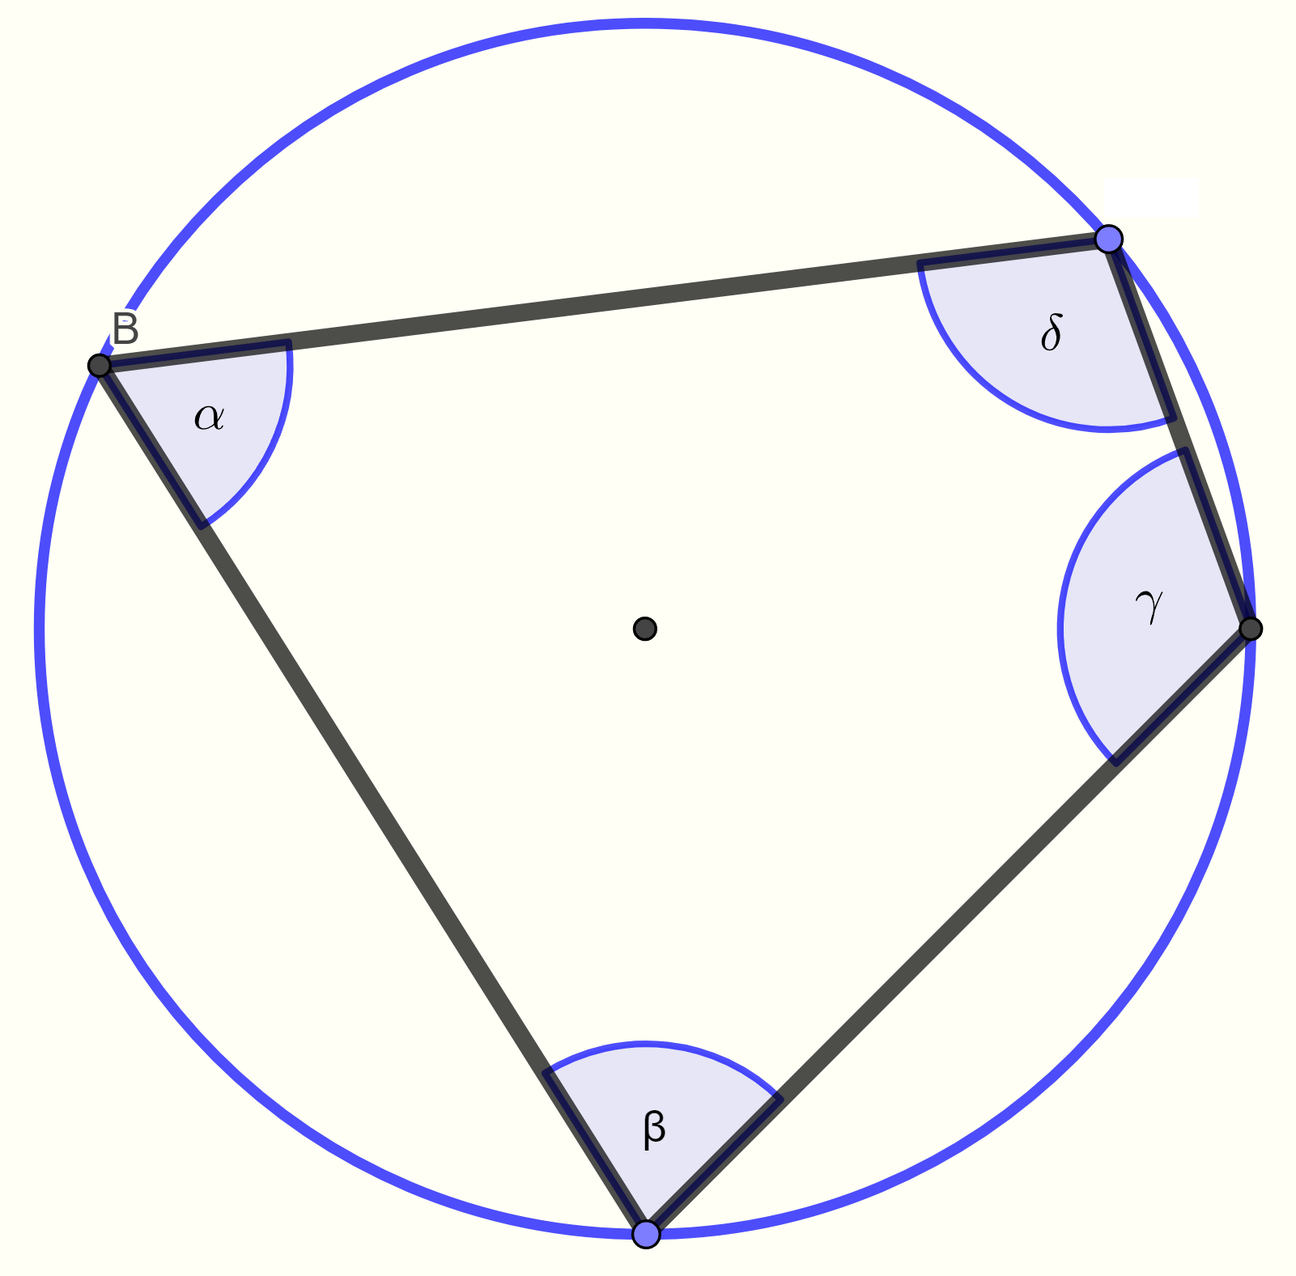
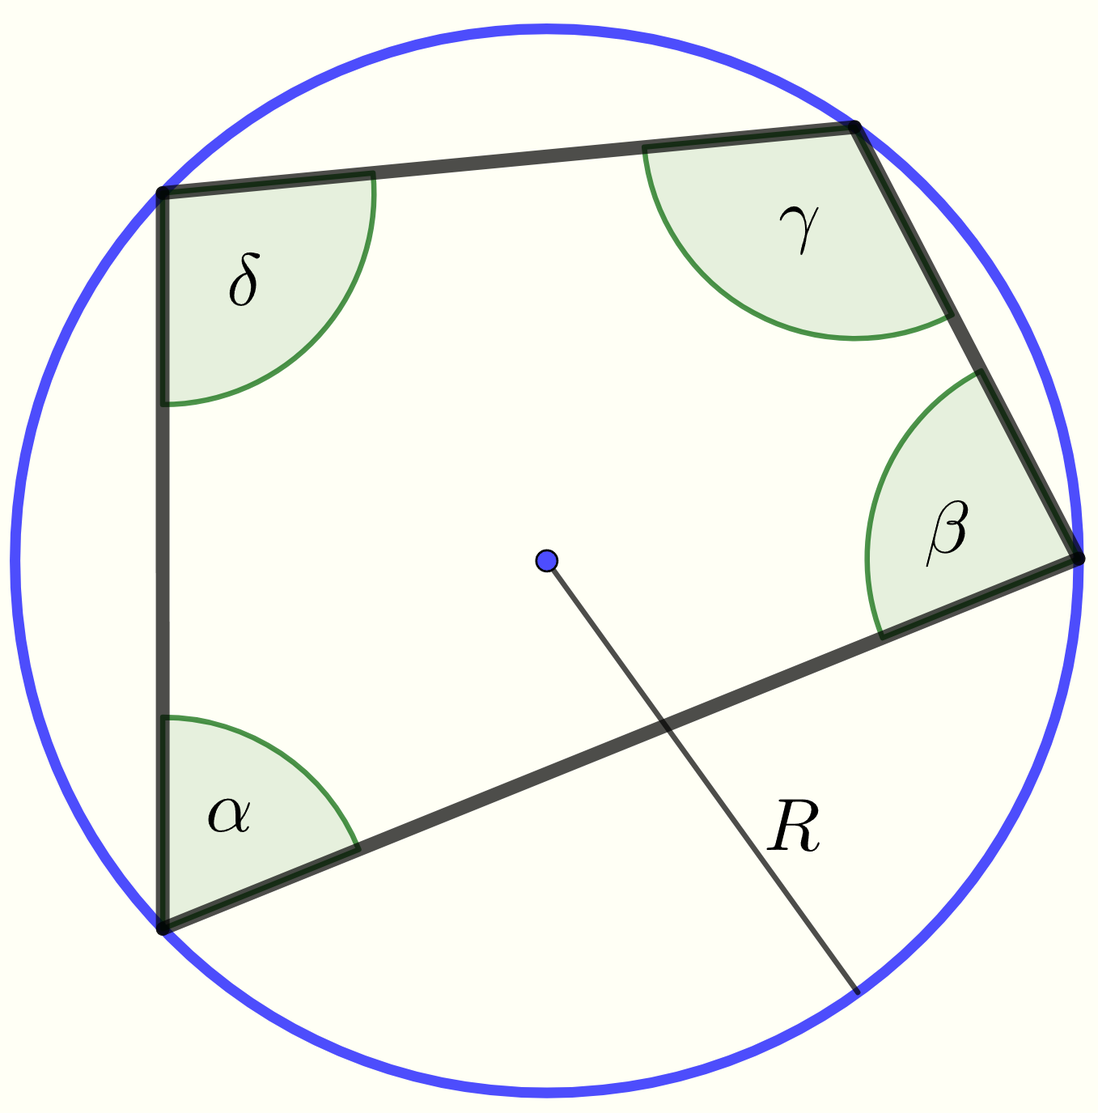
czworokaty aktualizacja

diff --git a/src/pages/knowledgeBasePages/planimetryPages/Quadrangles/CirclesRelations/CirclesRelationsContent.tsx b/src/pages/knowledgeBasePages/planimetryPages/Quadrangles/CirclesRelations/CirclesRelationsContent.tsx
@@ -12,6 +12,13 @@ import CyclingTrapezoid_Irregular from "../../../../../assets/images/quadrangles
 import CyclingTrapezoid_Trapezium from "../../../../../assets/images/quadrangles/cyclingTrapezoid_Trapezium.png";
 import CyclingTrapezoid_Rectangle from "../../../../../assets/images/quadrangles/cyclingTrapezoid_Rectangle.png";
 import CyclingTrapezoid_Square from "../../../../../assets/images/quadrangles/cyclingTrapezoid_Square.png";
+import PtolemeusTheory from "../../../../../assets/images/quadrangles/Ptolemeus_theory.png";
+import Tangential1 from "../../../../../assets/images/quadrangles/tangentialTrapezoid_Trapezium_2.png"
+import Tangential2 from "../../../../../assets/images/quadrangles/tangentialTrapezoid_TrapeziumRectangular.png";
+import Tangential3 from "../../../../../assets/images/quadrangles/tangentialTrapezoid_TrapeziumRegular.png";
+import Tangential4 from "../../../../../assets/images/quadrangles/tangentialTrapezoid_Rhombus.png";
+import Tangential5 from "../../../../../assets/images/quadrangles/tangentialTrapezoid_Square.png";
+
 
 import { GeometryEquations } from "../../../../../types/equations";
 
@@ -28,12 +35,14 @@ const CirclesRelationsContent: FC = () => (
         <GraphImage size={"small"} src={TrapezoidInCircle} alt={"Czworokąt wpisany w okrąg"} />
         <p>Dla czworokąta wpisanego w okrąg zachodzi zależność:</p>
         <Formula formula={GeometryEquations.trapezoid_in_circle} />
-        <LegendParagraph type={"top"} notation={"\\alpha, \\beta, \\gamma, \\delta"} explanation={"miary kątów wewnętrznych czworokąta"} /><br />
+        <LegendParagraph type={"long"} notation={"\\alpha, \\beta, \\gamma, \\delta"} explanation={"miary kątów wewnętrznych czworokąta"} />
+        <LegendParagraph type={"long"} notation={"R"} explanation={"promień okręgu opisanego na czworokącie"} />
+        <ArticleBorder />
         <p>Wzór na pole czworokąta, który jest wpisany w okrąg można policzyć za pomocą <b>wzoru Brahmagupty</b></p>
         <Formula formula={GeometryEquations.trapezoidInCircleArea} />
         <p>gdzie:</p>
         <Formula formula={GeometryEquations.HalfPerimeter} />
-        <LegendParagraph type={"top"} notation={"a,b,c,d"} explanation={"boki czworokąta cyklicznego"} />
+        <LegendParagraph type={"long"} notation={"a,b,c,d"} explanation={"boki czworokąta cyklicznego"} />
         <LegendParagraph type={"short"} notation={"p"} explanation={"połowa obwodu czworokąta cyklicznego"} />
         <br />
         <p>Ten sam wzór można zapisać bez konieczności wprowadzania wartości równej połowie obwodu czworokąta cyklicznego:</p>
@@ -42,6 +51,15 @@ const CirclesRelationsContent: FC = () => (
                 <Formula formula={GeometryEquations.trapezoidInCircleArea2} />
             </div>
         </div>
+
+        <ArticleBorder />
+        <Title text={"Twierdzenie Ptolemeusza"} type="submain-article" />
+        <p><b>Twierdzenie Ptolemeusza</b></p>
+        <p>W dowolnym czworokącie wpisanym w okrąg o kolejnych bokach a,b,c,d i przekątnych d<sub>1</sub>, d<sub>2</sub> suma iloczynów długości boków przeciwległych jest równa iloczynowi przekątnych.</p>
+        <p><b>Twierdzenie odwrotne do Twierdzenia Ptolemeusza</b></p>
+        <p>Jeśli w czworokącie iloczyn długości przekątnych równy jest sumie iloczynów długości przeciwległych boków, to czworokąt ten można wpisać w okrąg.</p>
+        <GraphImage size={"small"} src={PtolemeusTheory} alt={"Twierdzenie Ptolemeusza"} />
+        <Formula formula={GeometryEquations.ptolemeusTheory} />
         <ArticleBorder />
         <p>Środek okręgu opisanego na czworokacie jest punktem przecięcia się jego symetralnych</p>
         <GraphImage size={"smaller"} src={TrapezoidInCircle2} alt={"Czworokąt wpisany w okrąg"} />
@@ -60,9 +78,12 @@ const CirclesRelationsContent: FC = () => (
 
         <Title text={"Czworokąt opisany na okręgu"} type="main-article" />
         <GraphImage size={"small"} src={TrapezoidOnCircle} alt={"Czworokąt opisany na okręgu"} />
-        <p>Dla czworokąta opisanego na okręgu zachodzi natomiast zależność:</p>
+        <Title text={"Twierdzenie Pitota"} type="submain-article" />
+        <b>Twierdzenie Pitota</b>:
+        <p>Dla czworokąta opisanego na okręgu jest prawdziwe równanie </p>
         <Formula formula={GeometryEquations.trapezoid_on_circle} />
         <LegendParagraph type={"long"} notation={"a,b,c,d"} explanation={"kolejne boki czworokąta opisanego na okręgu."} /><br />
+        <ArticleBorder />
         <p>Znając promień okręgu wpisanego r możemy policzyć pole czworokąta opisanego na tym okręgu za pomocą wzoru</p>
         <Formula formula={GeometryEquations.trapezoidOnCircleArea} />
         <p>gdzie:</p>
@@ -76,9 +97,30 @@ const CirclesRelationsContent: FC = () => (
                 <Formula formula={GeometryEquations.trapezoidOnCircleArea2} />
             </div>
         </div>
+
+
         <ArticleBorder />
         <p><b>Środek okręgu wpisanego w czworokąt</b> jest punktem przecięcia się jego dwusiecznych kątów węwnętrznych</p>
         <GraphImage size={"small"} src={TrapezoidOnCircle2} alt={"Czworokąt opisany na okręgu"} />
+        <ArticleBorder />
+        <Title text={"Czworokąt styczny"} type="submain-article" />
+        <p><b>Czworokąt styczny</b> do okręgu to taki czworokąt, którego suma dwóch przeciwległych boków jest równa sumie dwóch pozostałych, czyli takim, w który da się wpisać okrąg. </p>
+        <p>W czworokąt wklęsły z wyłączeniem deltoida wklęsłego nie da się wpisać okręgu</p>
+        <br /><p>(miejsce na deltoid wklęsły z wpisanym okręgiem)</p><br />
+        <p>Jest możliwe wpisanie okręgu w <b>trapez równoramienny</b>, <b>prostokątny</b> oraz <b>różnoramienny</b></p>
+        <div className="flex flex-wrap items-center justify-around">
+            <GraphImage size={"smallest"} src={Tangential1} alt={"Trapez z wpisanym okręgiem 1"} />
+            <GraphImage size={"smallest"} src={Tangential2} alt={"Trapez z wpisanym okręgiem 2"} />
+            <GraphImage size={"smallest"} src={Tangential3} alt={"Trapez z wpisanym okręgiem 3"} />
+        </div>
+        <p>Okrąg wpisany w czworokąty od równych długościach boków: <b>rombu</b> oraz jego szczególnego przypadku, <b>kwadratu</b>.</p>
+        <div className="flex flex-wrap items-center justify-around">
+            <GraphImage size={"smallest"} src={Tangential4} alt={"Romb z wpisanym okręgiem 4"} />
+            <GraphImage size={"smallest"} src={Tangential5} alt={"Kwadrat z wpisanym okręgiem 5"} />
+        </div>
+        <ArticleBorder />
+        <Title text={"Czworokąt dwucentryczny"} type="submain-article" />
+        <p><b>Czworokąt dwucentryczny</b> to taki czworokąt, który jest równocześnie styczny i cykliczny. </p>
 
     </>
 );

diff --git a/src/types/equations.ts b/src/types/equations.ts
@@ -22,28 +22,29 @@ export enum GeometryEquations {
     HalfPerimeter = `p=\\frac{a+b+c+d}{2}`,
 
     // Areas
-    TrapezoidArea = `P_1=\\frac{1}{2} \\cdot d_1 \\cdot d_2 \\cdot  \\sin\\alpha`,
-    TrapezoidArea_Isosceles = `P_1=\\frac{1}{2} \\cdot d^2 \\cdot \\sin\\alpha`,
-    TrapezoidArea_Square = `P_1=\\frac{1}{2} \\cdot d^2`,
-    TrapezoidArea_Diamond = `P_1=\\frac{1}{2}\\cdot d_1 \\cdot d_2`,
-    TrapeziumArea = `P_2=\\frac{1}{2} \\cdot \\left( a + b \\right) \\cdot h`,
-    TrapeziumArea_Rectangular = `P_2=\\frac{1}{2}\\cdot \\left( a+b \\right) \\cdot c`,
-    TrapeziumArea_Parallelogram = `P_2=a \\cdot h`,
-    TrapeziumArea_Rectangle = `P_2=a \\cdot b`,
-    TrapeziumArea_Square = `P_2=a^2`,
-    TrapeziumArea2 = `P_3=\\frac{1}{4} \\cdot \\frac{\\left( a + b \\right)}{|a-b|} \\sqrt{(|a-b|+c+d)(|a-b|+c-d)(|a-b|-c+d)(-|a-b|+c+d)}`,
-    TrapeziumArea2_Isosceles = `P_3=\\frac{1}{4} \\cdot \\left( a + b \\right) \\sqrt{4c^2-(a-b)^2}`,
-    ParallelogramArea = `P_4=a \\cdot b \\cdot \\sin{\\beta}`,
-    ParallelogramArea_Rectangle = `P_4=a \\cdot b`,
-    ParallelogramArea_Square = 'P_4=a^2',
-    ParallelogramArea_Diamond = 'P_4=a^2 \\cdot \\sin{\\beta}',
+    QuadrangleArea = `P_1=\\sqrt{\\left( p - a \\right)\\left( p - b \\right)\\left( p - c \\right)\\left( p - d \\right)-abcd \\cdot \\cos^2 \\left(\\frac{\\alpha + \\gamma}{2}\\right)}`,
+    QuadrangleArea2 = `P_1=\\frac{1}{4}\\sqrt{\\left( -a+b+c+d \\right)\\left( a-b+c+d \\right)\\left( a+b-c+d \\right)\\left( a+b+c-d \\right)-abcd \\cdot \\cos^2 \\left(\\frac{\\alpha + \\gamma}{2}\\right)}`,
+    TrapezoidArea = `P_2=\\frac{1}{2} \\cdot d_1 \\cdot d_2 \\cdot  \\sin\\alpha`,
+    TrapezoidArea_Isosceles = `P_2=\\frac{1}{2} \\cdot d^2 \\cdot \\sin\\alpha`,
+    TrapezoidArea_Square = `P_2=\\frac{1}{2} \\cdot d^2`,
+    TrapezoidArea_Diamond = `P_2=\\frac{1}{2}\\cdot d_1 \\cdot d_2`,
+    TrapeziumArea = `P_3=\\frac{1}{2} \\cdot \\left( a + b \\right) \\cdot h`,
+    TrapeziumArea_Rectangular = `P_3=\\frac{1}{2}\\cdot \\left( a+b \\right) \\cdot c`,
+    TrapeziumArea_Parallelogram = `P_3=a \\cdot h`,
+    TrapeziumArea_Rectangle = `P_4=a \\cdot b`,
+    TrapeziumArea_Square = `P_4=a^2`,
+    TrapeziumArea2 = `P_4=\\frac{1}{4} \\cdot \\frac{\\left( a + b \\right)}{|a-b|} \\sqrt{(|a-b|+c+d)(|a-b|+c-d)(|a-b|-c+d)(-|a-b|+c+d)}`,
+    TrapeziumArea2_Isosceles = `P_4=\\frac{1}{4} \\cdot \\left( a + b \\right) \\sqrt{4c^2-(a-b)^2}`,
+    ParallelogramArea = `P_5=a \\cdot b \\cdot \\sin{\\beta}`,
+    ParallelogramArea_Rectangle = `P_5=a \\cdot b`,
+    ParallelogramArea_Square = 'P_5=a^2',
+    ParallelogramArea_Diamond = 'P_5=a^2 \\cdot \\sin{\\beta}',
     RectangleArea = `P = a \\cdot b`,
-    DeltoidArea = `P_5 = a \\cdot b \\cdot \\sin \\gamma`,
-    trapezoidInCircleArea = `P_6 = \\sqrt{\\left( p - a \\right)\\left( p - b \\right)\\left( p - c \\right)\\left( p - d \\right)}`,
-    trapezoidInCircleArea2 = `P_6 = \\frac{1}{4}\\sqrt{\\left( -a+b+c+d \\right)\\left( a-b+c+d \\right)\\left( a+b-c+d \\right)\\left( a+b+c-d \\right)}`,
+    DeltoidArea = `P_6 = a \\cdot b \\cdot \\sin \\gamma`,
+    trapezoidInCircleArea = `P_1 = \\sqrt{\\left( p - a \\right)\\left( p - b \\right)\\left( p - c \\right)\\left( p - d \\right)}`,
+    trapezoidInCircleArea2 = `P_1 = \\frac{1}{4}\\sqrt{\\left( -a+b+c+d \\right)\\left( a-b+c+d \\right)\\left( a+b-c+d \\right)\\left( a+b+c-d \\right)}`,
     trapezoidOnCircleArea = 'P_7 = p \\cdot r',
     trapezoidOnCircleArea2 = 'P_7 = \\frac{1}{2} \\left( a + b + c + d \\right) \\cdot r',
-
 
     // Segments
     TrapeziumMidpointsConnector = `\\frac{a+b}{2}`,
@@ -58,10 +59,11 @@ export enum GeometryEquations {
     RectangleDiagonal = 'd=\\sqrt{a^2+b^2}',
     SquareDiagonal = 'd=\\sqrt{2}',
 
-
     // Conditions
     trapezoid_in_circle = `\\alpha + \\gamma = \\beta + \\delta = 180^{\\circ}`,
     trapezoid_on_circle = `a + c = b + d`,
+    quadrilateral_interior_angles_theorem = `\\alpha + \\beta + \\gamma + \\delta = 360^{\\circ} `,
+    ptolemeusTheory = `a \\cdot c + b \\cdot d = d_1 \\cdot d_2`
 }
 
 //Linear Formula

diff --git a/src/pages/knowledgeBasePages/planimetryPages/Quadrangles/QuadranglesContent.tsx b/src/pages/knowledgeBasePages/planimetryPages/Quadrangles/QuadranglesContent.tsx
@@ -12,6 +12,13 @@ import SquareContent from "./Square/SquareContent";
 import DiamondContent from "./Diamond/DiamondContent";
 import DeltoidContent from "./Deltoid/DeltoidContent";
 import CirclesRelationsContent from "./CirclesRelations/CirclesRelationsContent";
+import Quadrangle1 from "../../../../assets/images/quadrangles/Quadrangles_01.png";
+import Quadrangle2 from "../../../../assets/images/quadrangles/Quadrangles_02.png";
+import GraphImage from "../../../../components/articleItems/GraphImage";
+import Formula from "../../../../components/articleItems/Formula";
+import { GeometryEquations } from "../../../../types/equations";
+import LegendParagraph from "../../../../components/articleItems/LegendParagraph";
+
 
 const QuadranglesContent: FC = () => {
 
@@ -21,7 +28,42 @@ const QuadranglesContent: FC = () => {
                 {/* CZWOROKĄTY */}
                 <Title text={"Czworokąty"} type={"main-article"} />
                 <p><b>Czworokąt (czworobok)</b> to wielokąt płaski o czterech bokach i dwóch przekątnych, definiowanych jako odcinki łączące dwa niesąsiednie boki.</p>
+                <div className="flex flex-wrap justify-around">
+                    <div className="flex flex-col">
+                        <Title text={"Czworokąt wypukły"} type="main-article" />
+                        <GraphImage size={"smaller"} src={Quadrangle1} alt={"Czworokat wypukły"} />
+                    </div>
+                    <div>
+                        <Title text={"Czworokąt wklęsły"} type="main-article" />
+                        <GraphImage size={"smaller"} src={Quadrangle2} alt={"Czworokat wklęsły"} />
+                    </div>
+                </div>
+                <Title text={"Twierdzenie Bretschneidera"} type="submain-article" />
+                <p>Zgodnie z <b>Twierdzeniem Bretschneidera</b> znając długości wszystkich boków i miary wszystkich kątów dowolnego czworokąta można policzyć jego pole powierzchni za pomocą wzoru:</p>
+                <div className="overflow-x-auto">
+                    <div className="flex justify-center my-4 min-w-[600px]">
+                        <Formula formula={GeometryEquations.QuadrangleArea} />
+                    </div>
+                </div>
+                <p>gdzie:</p>
+                <Formula formula={GeometryEquations.HalfPerimeter} />
+                <LegendParagraph type={"long"} notation={"a,b,c,d"} explanation={"boki czworokąta"} />
+                <LegendParagraph type={"long"} notation={"\\alpha, \\gamma"} explanation={"miary dwóch przeciwległych kątów wewnętrznych czworokąta"} />
+                <LegendParagraph type={"long"} notation={"p"} explanation={"połowa obwodu czworokąta"} />
+                <br />
+                <p>Ten sam wzór można zapisać bez konieczności wprowadzania wartości równej połowie obwodu czworokąta:</p>
+                <div className="overflow-x-auto">
+                    <div className="flex justify-center my-4 min-w-[800px]">
+                        <Formula formula={GeometryEquations.QuadrangleArea2} />
+                    </div>
+                </div>
+                <ArticleBorder />
+                <Title text={"Twierdzenie o kątach wewnętrznych w czworokącie"} type="submain-article" />
+                <Formula formula={GeometryEquations.quadrilateral_interior_angles_theorem} />
                 <br /><p>Suma miar kątów wewnętrznych czworokąta wynosi 360°</p>
+
+
+
                 <ArticleBorder />
                 {/* TRAPEZOID */}
                 <TrapezoidContent />

diff --git a/src/pages/knowledgeBasePages/planimetryPages/Quadrangles/Trapezoid/TrapezoidContent.tsx b/src/pages/knowledgeBasePages/planimetryPages/Quadrangles/Trapezoid/TrapezoidContent.tsx
@@ -5,6 +5,7 @@ import Trapezoid from "../../../../../assets/images/quadrangles/trapezoid.png"
 import Formula from "../../../../../components/articleItems/Formula";
 import { GeometryEquations } from "../../../../../types/equations";
 import LegendParagraph from "../../../../../components/articleItems/LegendParagraph";
+import { NavLink } from "react-router-dom";
 
 const TrapezoidContent: FC = () => {
 
@@ -17,8 +18,9 @@ const TrapezoidContent: FC = () => {
                 <br />
                 <p><u>Definicja 1:</u> Czworokąt wypukły, który nie jest trapezem, tzn. nie ma żadnej pary boków równoległych</p>
                 <p><u>Definicja 2:</u> Każdy czworokąt wypukły</p><br />
-                <p>Na majza.eu przyjęte zostało założenie, że trapezoid jest dowolnym czworokątem wypukłym zgodnie z definicją 2, wówczas fakt dziedziczenia cech rodzica w drzewie klasyfikacyjnym rodzica będzie spójny. Na przykład każdy czworokąt, który jest niżej w drzewie klasyfikacyjnym, jak np. trapez, prostokąt, czy deltoid, dziedziczy pole trapezoidu.
-                </p>
+                <p>Na majza.eu przyjęte zostało założenie, że trapezoid jest dowolnym czworokątem wypukłym zgodnie z definicją 2, wówczas fakt dziedziczenia cech rodzica w drzewie klasyfikacyjnym czworokątów będzie spójny.
+                </p><br />
+                <p>Na przykład: kwadrat dziedziczy cechy prostokąta, który dziedziczy cechy, równoległoboku, który dziedziczy cechy trapeza równoramiennego, który dziedziczy cechy trapeza, który dziedziczy cechy trapezoidu (czworokąta wypukłego).</p>
                 <br />
                 <p>W polskich podręcznikach do matematyki zazwyczaj stosowana jest definicja 1.</p>
                 <GraphImage size={"small"} src={Trapezoid} alt={"Trapezoid"} />
@@ -28,7 +30,7 @@ const TrapezoidContent: FC = () => {
                 <Formula formula={GeometryEquations.TrapezoidArea} />
                 <LegendParagraph type={"top"} notation={"d_1,d_2"} explanation={"przekątne czworokąta"} />
                 <LegendParagraph type={"short"} notation={"\\alpha"} explanation={"kąt między przekątnymi"} /><br />
-                <p>Wszystkie cechy czworokąta wypukłego są dziedziczone przez figury potomne. Szczególnymi przypadkami trapezoidów są <b>trapez</b> i <b>deltoid</b>.</p>
+                <p>Wszystkie cechy czworokąta wypukłego są dziedziczone przez figury potomne. Szczególnymi przypadkami trapezoidów są <NavLink to="../trapez"><b>trapez</b></NavLink> i <NavLink to="../deltoid"><b>deltoid</b></NavLink>.</p>
             </div>
         </>
     );

diff --git a/src/pages/knowledgeBasePages/planimetryPages/Quadrangles/Parallelogram/ParallelogramContent.tsx b/src/pages/knowledgeBasePages/planimetryPages/Quadrangles/Parallelogram/ParallelogramContent.tsx
@@ -9,6 +9,7 @@ import Paralellogram from "../../../../../assets/images/quadrangles/Parallelogra
 import Proof from "../../../../../components/articleItems/Proof";
 import ParallelogramAngles from "../../../../../assets/images/quadrangles/Parallelogram_angles.png"
 import { TrapeziumAreaParallelogramProof } from "../../../../../types/proofs";
+import { NavLink } from "react-router-dom";
 
 
 const ParallelogramContent: FC = () => (
@@ -28,7 +29,7 @@ const ParallelogramContent: FC = () => (
         <p>Równoległobok jest trapezem, więc w przypadku, gdy wybrane dwa równoległe boki uznamy za podstawy otrzymamy zredukowaną postać wzoru:</p>
         <Formula formula={GeometryEquations.TrapeziumArea_Parallelogram} />
         <LegendParagraph type={"top"} notation={"h"} explanation={"wysokość równoległoboku opuszczona na bok a"} /><br />
-        <Proof steps={TrapeziumAreaParallelogramProof} text={"Dowód"} />
+        <Proof steps={TrapeziumAreaParallelogramProof} text={"Dowód"} /><br />
         <p>Pole powierzchni równoległoboku wyraża się również wzorem</p>
         <Formula formula={GeometryEquations.ParallelogramArea} />
         <LegendParagraph type={"top"} notation={"\\beta"} explanation={"kąt między bokami równoległoboku"} />
@@ -40,13 +41,13 @@ const ParallelogramContent: FC = () => (
         <GraphImage size={"small"} src={ParallelogramAngles} alt={"Równoległobok"} />
         <p>To twierdzenie można udowodnić za pomocą <b>Twierdzenia o trzech prostych</b></p>
         <ArticleBorder />
-        <p> Wyróżnia się szczególne przypadki równoległoboków: <b>Prostokąt</b> i <b>Romb</b></p><br />
         <p> <b>Długości przekątnych:</b></p>
         <Formula formula={GeometryEquations.ParallelogramDiagonal_short} />
         <Formula formula={GeometryEquations.ParallelogramDiagonal_long} />
         <p>Długości przekątnych są możliwe do wyznaczenia za pomocą <b>Twierdzenie cosinusów</b></p>
-
-
+        <p>Punkt przecięcia przekątnych równoległoboku dzieli je na dwa równe odcinki</p>
+        <ArticleBorder />
+        <p> Wyróżnia się szczególne przypadki równoległoboków: <NavLink to="../prostokat"><b>Prostokąt</b></NavLink> i <NavLink to="../romb"><b>Romb</b></NavLink></p>
     </>
 );
 

diff --git a/src/pages/knowledgeBasePages/planimetryPages/Quadrangles/Trapezium/TrapeziumContent.tsx b/src/pages/knowledgeBasePages/planimetryPages/Quadrangles/Trapezium/TrapeziumContent.tsx
@@ -8,6 +8,7 @@ import LegendParagraph from "../../../../../components/articleItems/LegendParagr
 import TrapezeHalf from "../../../../../assets/images/quadrangles/tapeze_half.png";
 import ArticleBorder from "../../../../../components/articleItems/ArticleBorder";
 import TrapeziumAngles from "../../../../../assets/images/quadrangles/trapezium_angles.png";
+import { NavLink } from "react-router-dom";
 
 const TrapeziumContent: FC = () => {
 
@@ -46,7 +47,7 @@ const TrapeziumContent: FC = () => {
                 <p><b>Odcinek łączący środki ramion</b> trapezu jest równoległy do jego postaw i jego długość wyraża się równaniem</p>
                 <Formula formula={GeometryEquations.TrapeziumMidpointsConnector} />
                 <ArticleBorder />
-                <p> Wyróżnia się szczególne przypadki trapezów: <b>trapez prostokątny</b> i <b>trapez równoramienny</b></p>
+                <p> Wyróżnia się szczególne przypadki trapezów: <NavLink to="../trapez-prostokatny"><b>trapez prostokątny</b></NavLink> i <NavLink to="../trapez-rownoramienny"><b>trapez równoramienny</b></NavLink></p>
 
 
             </div>

diff --git a/src/pages/knowledgeBasePages/planimetryPages/Quadrangles/IsoscelesTrapezium/IsoscelesTrapeziumContent.tsx b/src/pages/knowledgeBasePages/planimetryPages/Quadrangles/IsoscelesTrapezium/IsoscelesTrapeziumContent.tsx
@@ -10,6 +10,7 @@ import TrapezeRegularShortX from "../../../../../assets/images/quadrangles/trape
 import TrapezeRegularLongX from "../../../../../assets/images/quadrangles/trapeze_regular_longx.png";
 import Proof from "../../../../../components/articleItems/Proof";
 import ArticleBorder from "../../../../../components/articleItems/ArticleBorder";
+import { NavLink } from "react-router-dom";
 const IsoscelesTrapeziumContent: FC = () => {
 
     return (
@@ -43,7 +44,7 @@ const IsoscelesTrapeziumContent: FC = () => {
             <Formula formula={GeometryEquations.IsoscelesTrapezium_LongerSegment} />
             <Proof steps={isoscelesTrapezoidLongerSegmentProof} text={"Dowód"} />
             <ArticleBorder />
-            <p>Wyróżnia się szczególne przypadki trapezów równoramiennych: <b>równoległobok</b>, <b>romb</b>, <b>prostokąt</b> i <b>kwadrat</b></p>
+            <p>Wyróżnia się szczególne przypadki trapezów równoramiennych: <NavLink to="../rownoleglobok"><b>równoległobok</b></NavLink> i <NavLink to="../prostokat"><b>prostokąt</b></NavLink></p>
         </>
     );
 };

diff --git a/src/pages/knowledgeBasePages/planimetryPages/Quadrangles/RectangularTrapezium/RectangularTrapeziumContent.tsx b/src/pages/knowledgeBasePages/planimetryPages/Quadrangles/RectangularTrapezium/RectangularTrapeziumContent.tsx
@@ -7,6 +7,7 @@ import RectangularTrapezium from "../../../../../assets/images/quadrangles/recta
 import ArticleBorder from "../../../../../components/articleItems/ArticleBorder";
 import RectangularTrapeziumX from "../../../../../assets/images/quadrangles/rectangular_trapezium_x.png";
 import { GeometryEquations } from "../../../../../types/equations";
+import { NavLink } from "react-router-dom";
 const RectangularTrapeziumContent: FC = () => {
 
     return (
@@ -36,7 +37,7 @@ const RectangularTrapeziumContent: FC = () => {
                 <p><b>Odcinek różnicy podstaw</b>, który łączy koniec podstawy, od strony kąta ostrego, z bliższym spodkiem wysokości opuszczonej na tę podstawę jest równy </p>
                 <Formula formula="\\a-b" />
                 <ArticleBorder />
-                <p>Wyróżnia się szczególne przypadki trapezów prostokątnych: <b>prostokąt</b> i <b>kwadrat</b></p>
+                <p>Wyróżnia się szczególny przypadek trapeza prostokątnego: <NavLink to="../prostokat"><b>prostokąt</b></NavLink></p>
             </div>
         </>
     );

diff --git a/src/routes/navigationData.ts b/src/routes/navigationData.ts
@@ -85,7 +85,6 @@ export const sidebarLinksKnowledgeBase: SidebarCategory[] = [
             { to: "prostokat", text: "Prostokąt" },
             { to: "kwadrat", text: "Kwadrat" },
             { to: "deltoid", text: "Deltoid" },
-            { to: "czworokaty-wklesle", text: "Czworokąty Wklęsłe" },
             { to: "relacja-z-okregiem", text: "Relacja z okręgiem" },
 
             // { to: "trójkaty", text: "Trójkąty" },
